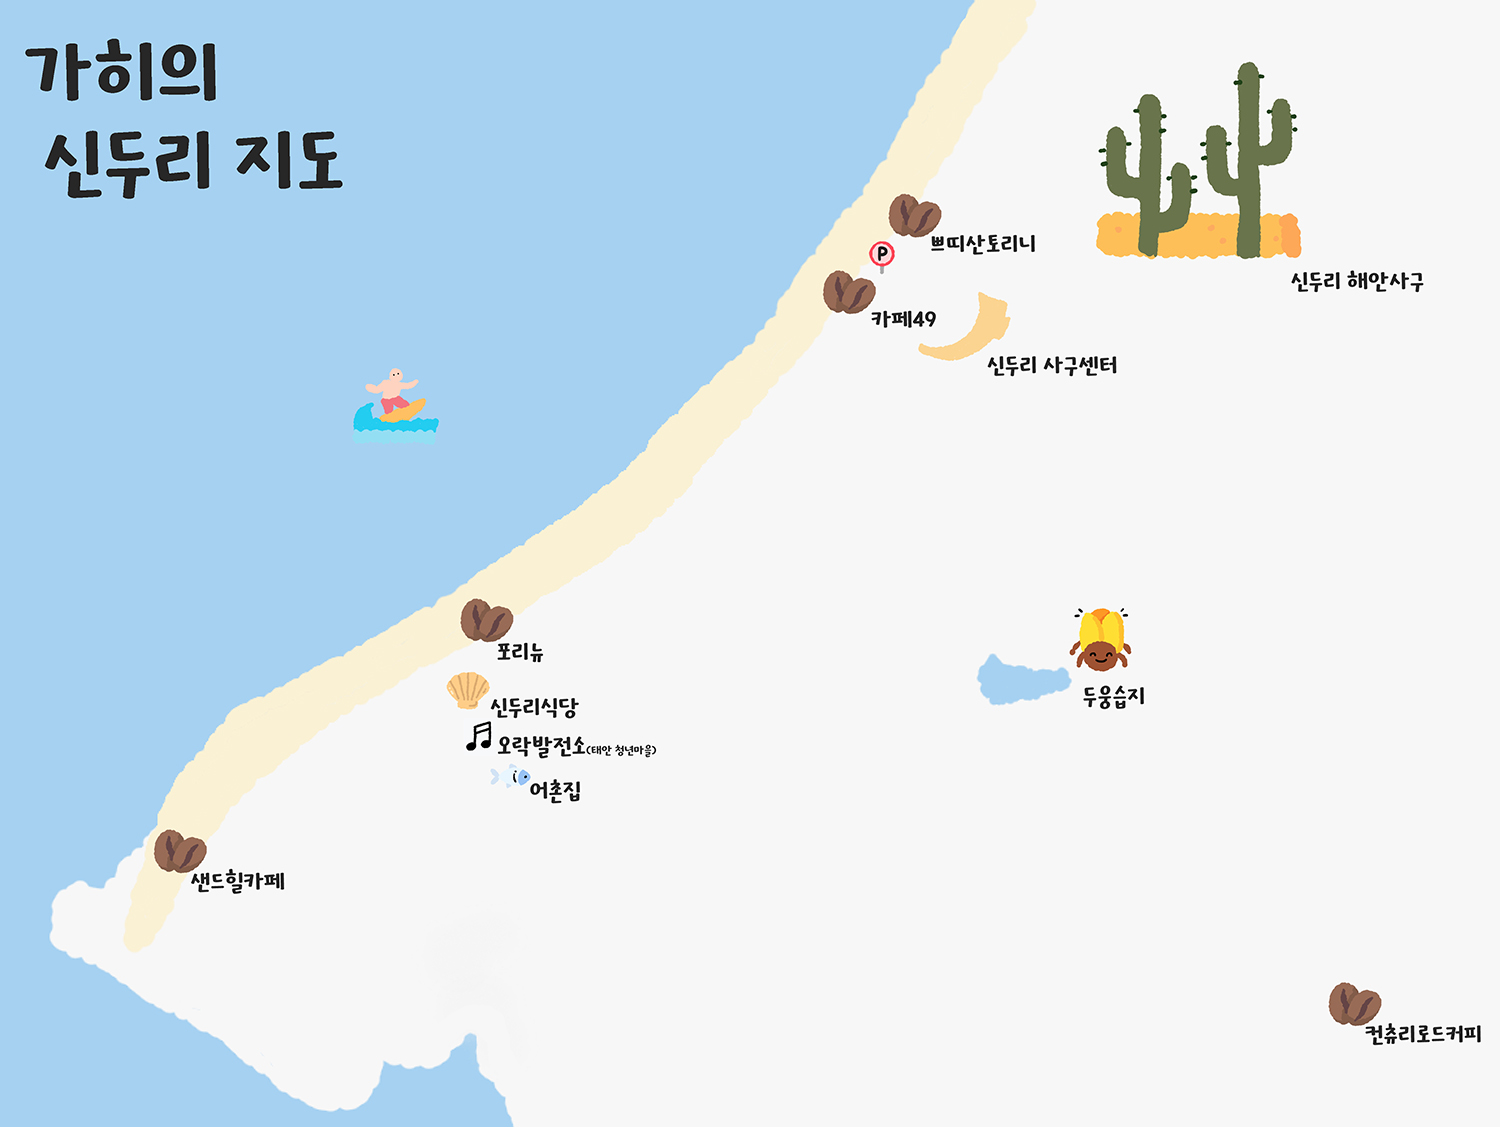
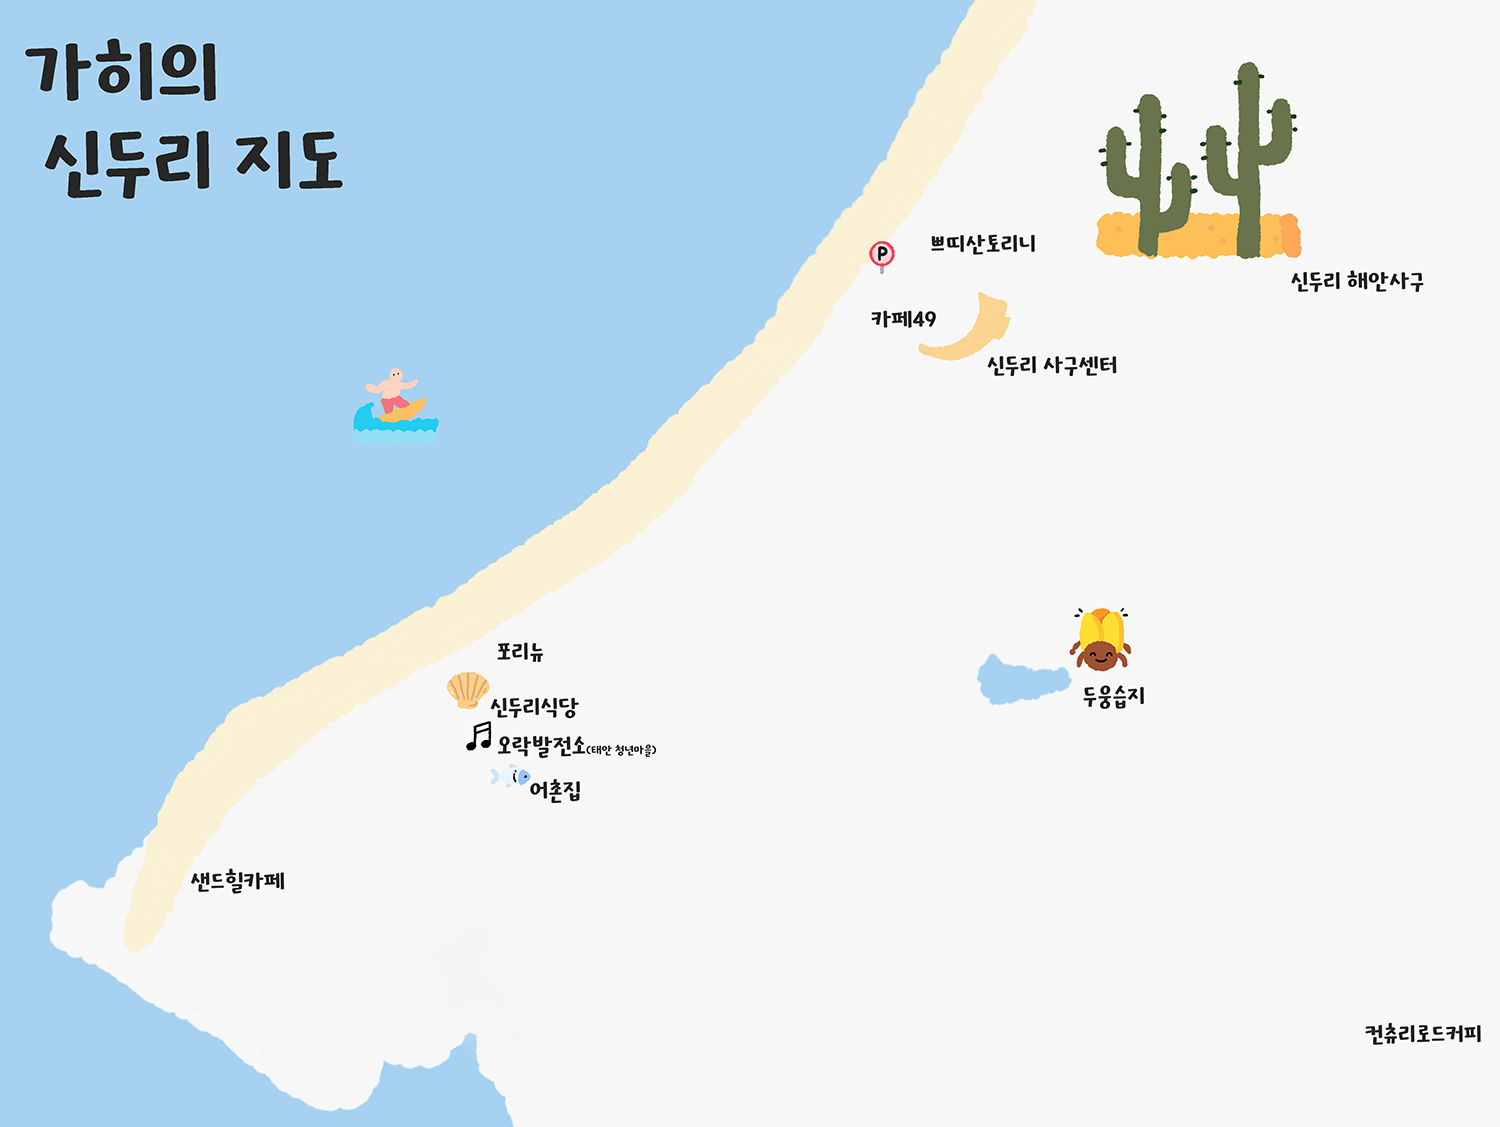
update map
- add hover effect

diff --git a/index.html b/index.html
@@ -5,6 +5,7 @@
     <meta http-equiv="X-UA-Compatible" content="IE=edge">
     <meta name="viewport" content="width=device-width, initial-scale=1.0">
     <title>가히의 신두리 지도</title>
+    <script src="https://code.jquery.com/jquery-3.7.0.min.js" integrity="sha256-2Pmvv0kuTBOenSvLm6bvfBSSHrUJ+3A7x6P5Ebd07/g=" crossorigin="anonymous"></script>
     <style>
         * {
             margin: 0px;
@@ -16,26 +17,63 @@
         #mapArea {
             width: 100%;
             max-width: 1500px;
+            position: relative;
+        }
+        #map {
+            width: 100%;
+            max-width: 1500px;
+        }
+        .coffeeIcon {
+            position: absolute;
+            width: 4%;
+        }
+        #cafeSandhill {
+            left: 10%;
+            top: 72%;
+        }
+        #cafeForrenu {
+            left: 30%;
+            top: 52%;
+        }
+        #cafeDune {
+            left: 55%;
+            top: 23%;
+        }
+        #cafeSantorini {
+            left: 59%;
+            top: 16%;
+        }
+        #cafeCountryroad {
+            left: 88%;
+            top: 86%;
         }
     </style>
 </head>
 <body>
     <div id="mapArea">
-        <svg version="1.1" xmlns="http://www.w3.org/2000/svg" xmlns:xlink="http://www.w3.org/1999/xlink" viewBox="0 0 1500 1182" max>
-        <image xlink:href="./map.jpg" id="map"></image> 
-        <a xlink:href="https://blog.naver.com/hlogs/222984717978">
-            <rect x="881" y="188" fill="#fff" opacity="0" width="171" height="98"></rect>
+        <img src="./map.jpg" alt="신두리 지도" id="map" />
+        <a href="https://blog.naver.com/hlogs/222986640662">
+            <img src="./icon/coffee.png" class="coffeeIcon" id="cafeSandhill" alt="샌드힐" />
         </a>
-        <a xlink:href="https://blog.naver.com/hlogs/222983017717">
-            <rect x="747" y="361" fill="#fff" opacity="0" width="169" height="90"></rect>
+        <a href="https://blog.naver.com/hlogs/223117411275">
+            <img src="./icon/coffee.png" class="coffeeIcon" id="cafeForrenu" alt="포리뉴" />
         </a>
-        <a xlink:href="https://blog.naver.com/hlogs/223117411275">
-            <rect x="452" y="554" fill="#fff" opacity="0" width="175" height="111"></rect>
+        <a href="https://blog.naver.com/hlogs/222983017717">
+            <img src="./icon/coffee.png" class="coffeeIcon" id="cafeDune" alt="카페49"  />
         </a>
-        <a xlink:href="https://blog.naver.com/hlogs/222986640662">
-            <rect x="147" y="821" fill="#fff" opacity="0" width="211" height="100"></rect>
+        <a href="https://blog.naver.com/hlogs/222984717978">
+            <img src="./icon/coffee.png" class="coffeeIcon" id="cafeSantorini" alt="쁘띠산토리니" />
         </a>
-        </svg>
+        <a href="https://blog.naver.com/hlogs/223074285676">
+            <img src="./icon/coffee.png" class="coffeeIcon" id="cafeCountryroad" alt="컨츄리로드커피" />
+        </a>
     </div>
 </body>
+<script>
+    $("#mapArea a img").hover(function(){
+        $(this).attr('src', $(this).attr('src').replace('.png','_outline.png'));
+    }, function (){
+        $(this).attr('src', $(this).attr('src').replace('_outline.png','.png'));
+    })
+</script>
 </html>
